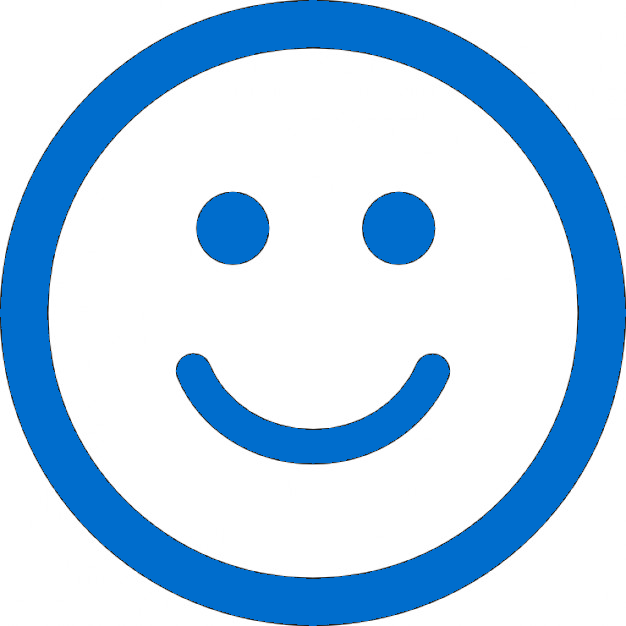
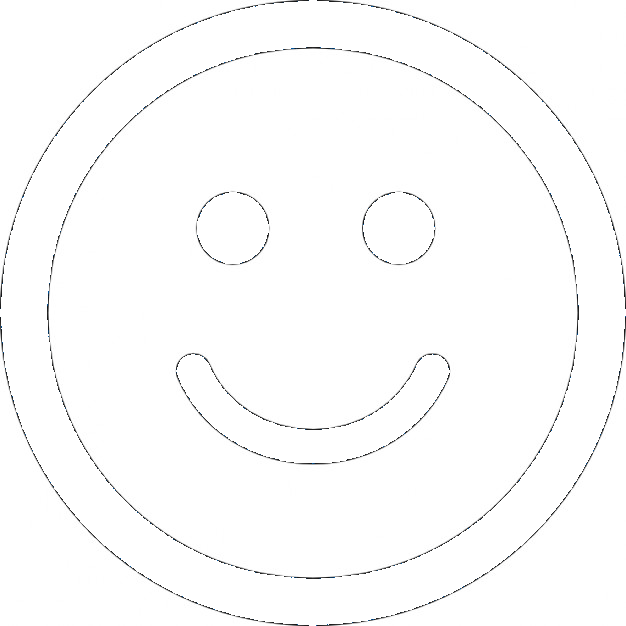
changes the colors

diff --git a/index.html b/index.html
@@ -11,9 +11,9 @@
   <meta name="viewport" content="width=device-width, initial-scale=1" />
   <!-- styles -->
   <link rel="stylesheet" type="text/css" href="vendor/css/normalize.css">
-  <link rel="stylesheet" type="text/css" href="assets/css/main.css">
   <link rel="stylesheet" type="text/css" href="vendor/css/bootstrap.min.css">
   <link rel="stylesheet" type="text/css" href="vendor/css/bootstrap-theme.min.css">
+  <link rel="stylesheet" type="text/css" href="assets/css/main.css">
   <!-- scripts -->
   <script src="https://ajax.googleapis.com/ajax/libs/jquery/3.1.0/jquery.min.js"></script>
   <script type="text/javascript" src="assets/js/app.js"></script>
@@ -23,11 +23,11 @@
 <body>
   <div class= "container" id="page-wrapper">
     <h1>Nicolas Budig</h1>
-    <img src="assets/imgs/smiley.png"/>
+    <img src="assets/imgs/smiley2.png"/>
     <br/>
     <br/>
-    <a class="btn btn-primary">Contact Me!</a>
-    <a class="btn btn-primary">My Work</a>
+    <a class="btn btn-primary .col-md-6" id="contactButton">Contact Me!</a>
+    <a class="btn btn-primary .col-md-6"id="workButton">My Work</a>
     <div class="container" id="work-container">
       <h3>
         My Work

diff --git a/assets/css/main.css b/assets/css/main.css
@@ -1,4 +1,3 @@
-/*empty*/
 img{
   height: 20em;
   width: auto;
@@ -8,7 +7,7 @@ div{
   text-align: center;
 }
 
-body{
-  height:100%;
-  width: 100%;
+body {
+  color: white;
+  background: #232323;
 }
